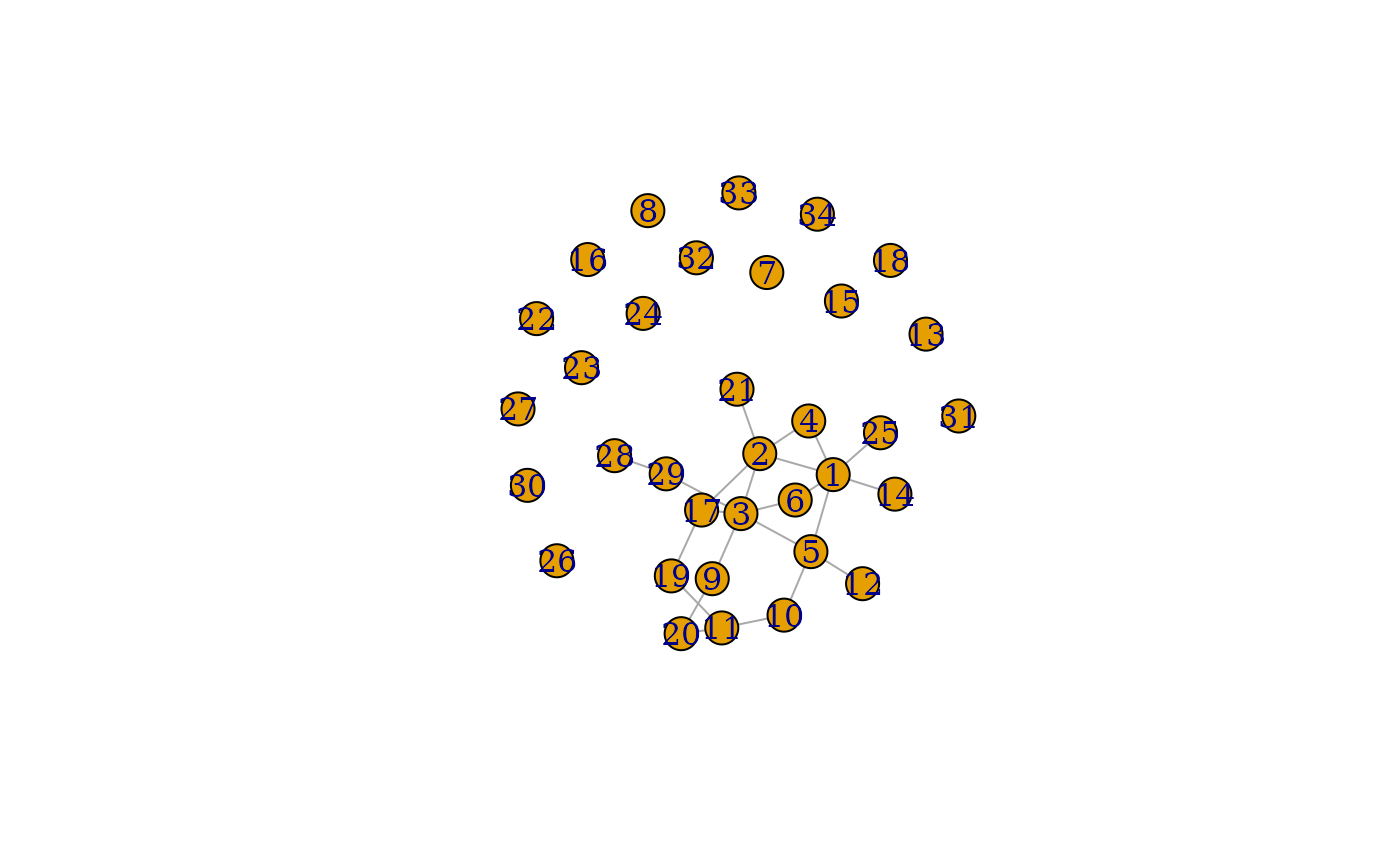
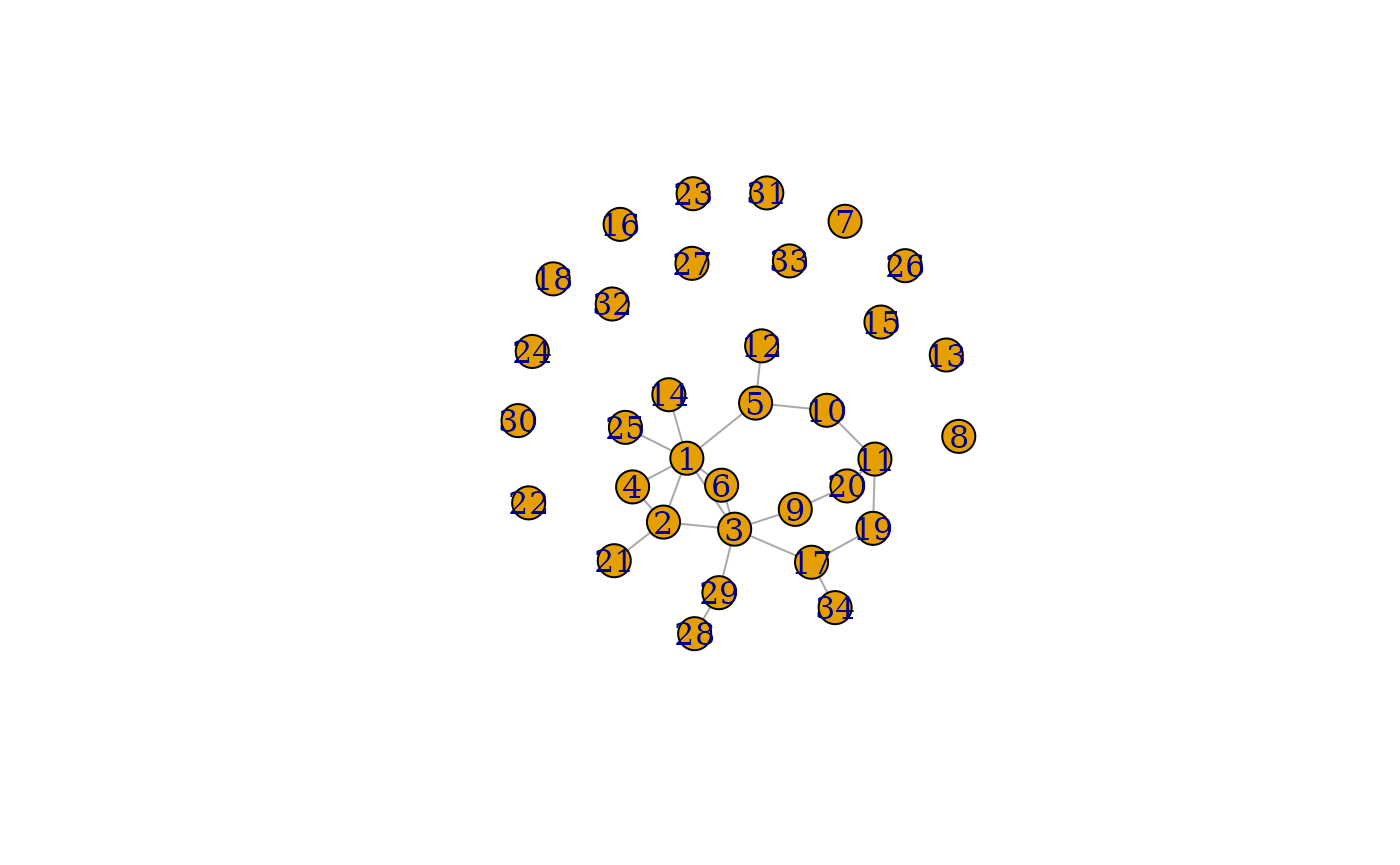
Deploying to gh-pages from @ sevvandi/netseer@c689d47a71e27f04a7684e29b8990f92b8fc075b 🚀

Changed region(s): [[0.3379, 0.1873, 0.7064, 0.7491], [0.3379, 0.2809, 0.4914, 0.4994]]

diff --git a/articles/netseer.html b/articles/netseer.html
@@ -25,7 +25,7 @@
 
     <a class="navbar-brand me-2" href="../index.html">netseer</a>
 
-    <small class="nav-text text-muted me-auto" data-bs-toggle="tooltip" data-bs-placement="bottom" title="">0.1.1</small>
+    <small class="nav-text text-muted me-auto" data-bs-toggle="tooltip" data-bs-placement="bottom" title="">0.1.2</small>
 
 
     <button class="navbar-toggler" type="button" data-bs-toggle="collapse" data-bs-target="#navbar" aria-controls="navbar" aria-expanded="false" aria-label="Toggle navigation">
@@ -143,11 +143,11 @@ specifies we want to predict the graph at the next time point.</p>
 <span><span class="co">#&gt;   as.zoo.data.frame zoo</span></span>
 <span><span class="va">grpred</span></span>
 <span><span class="co">#&gt; $graph_mean</span></span>
-<span><span class="co">#&gt; IGRAPH 1df11f7 U--- 34 23 -- </span></span>
-<span><span class="co">#&gt; + edges from 1df11f7:</span></span>
-<span><span class="co">#&gt;  [1] 28--29 17--19 11--20 11--19 10--11  9--20  5--12  5--10  3--29  3--17</span></span>
-<span><span class="co">#&gt; [11]  3-- 9  3-- 6  3-- 5  2--21  2--17  2-- 4  2-- 3  1--25  1--14  1-- 6</span></span>
-<span><span class="co">#&gt; [21]  1-- 5  1-- 4  1-- 2</span></span>
+<span><span class="co">#&gt; IGRAPH b2c3eab U--- 34 23 -- </span></span>
+<span><span class="co">#&gt; + edges from b2c3eab:</span></span>
+<span><span class="co">#&gt;  [1]  1-- 2  1-- 4  1-- 5  1-- 6  1--14  1--25  2-- 3  2-- 4  2--21  3-- 6</span></span>
+<span><span class="co">#&gt; [11]  3-- 9  3--17  3--29  5--10  5--12  9--20 10--11 11--19 11--20 17--19</span></span>
+<span><span class="co">#&gt; [21] 28--29  1-- 3 17--34</span></span>
 <span><span class="co">#&gt; </span></span>
 <span><span class="co">#&gt; $graph_lower</span></span>
 <span><span class="co">#&gt; NULL</span></span>
@@ -174,11 +174,11 @@ specifies we want to predict the graph at the next time point.</p>
 <span><span class="co">#&gt; [2] missing value where TRUE/FALSE needed</span></span>
 <span><span class="va">grpred2</span></span>
 <span><span class="co">#&gt; $graph_mean</span></span>
-<span><span class="co">#&gt; IGRAPH 0441afc U--- 37 26 -- </span></span>
-<span><span class="co">#&gt; + edges from 0441afc:</span></span>
-<span><span class="co">#&gt;  [1] 28--29 17--19 13--15 11--20 11--19 10--11  9--20  5--12  5--10  4-- 7</span></span>
-<span><span class="co">#&gt; [11]  3--29  3--17  3-- 9  3-- 6  3-- 5  2--21  2--17  2-- 4  2-- 3  1--25</span></span>
-<span><span class="co">#&gt; [21]  1--14  1--11  1-- 6  1-- 5  1-- 4  1-- 2</span></span>
+<span><span class="co">#&gt; IGRAPH b3202a6 U--- 37 26 -- </span></span>
+<span><span class="co">#&gt; + edges from b3202a6:</span></span>
+<span><span class="co">#&gt;  [1]  1-- 2  1-- 4  1-- 5  1-- 6  1--14  1--25  2-- 3  2-- 4  2--21  3-- 6</span></span>
+<span><span class="co">#&gt; [11]  3-- 9  3--17  3--29  5--10  5--12  9--20 10--11 11--19 11--20 17--19</span></span>
+<span><span class="co">#&gt; [21] 28--29  1-- 3  3-- 4  2-- 5  4-- 5 17--37</span></span>
 <span><span class="co">#&gt; </span></span>
 <span><span class="co">#&gt; $graph_lower</span></span>
 <span><span class="co">#&gt; NULL</span></span>
@@ -212,11 +212,11 @@ less accurate. This is with everything, not just graphs.</p>
 <span><span class="co">#&gt; [2] missing value where TRUE/FALSE needed</span></span>
 <span><span class="va">grpred3</span></span>
 <span><span class="co">#&gt; $graph_mean</span></span>
-<span><span class="co">#&gt; IGRAPH c6cf6e5 U--- 40 29 -- </span></span>
-<span><span class="co">#&gt; + edges from c6cf6e5:</span></span>
-<span><span class="co">#&gt;  [1] 28--29 17--19 13--15 11--20 11--19 10--11  9--20  5--12  5--10  4-- 7</span></span>
-<span><span class="co">#&gt; [11]  3--29  3--17  3-- 9  3-- 6  3-- 5  2--21  2--17  2-- 4  2-- 3  1--25</span></span>
-<span><span class="co">#&gt; [21]  1--14  1--11  1-- 6  1-- 5  1-- 4  1-- 2  1--38  1--39  4--40</span></span>
+<span><span class="co">#&gt; IGRAPH bb7627e U--- 40 29 -- </span></span>
+<span><span class="co">#&gt; + edges from bb7627e:</span></span>
+<span><span class="co">#&gt;  [1]  1-- 2  1-- 4  1-- 5  1-- 6  1--14  1--25  2-- 3  2-- 4  2--21  3-- 6</span></span>
+<span><span class="co">#&gt; [11]  3-- 9  3--17  3--29  5--10  5--12  9--20 10--11 11--19 11--20 17--19</span></span>
+<span><span class="co">#&gt; [21] 28--29  1-- 3  3-- 4  2-- 5  4-- 6  5-- 6  2-- 9  1--10 17--40</span></span>
 <span><span class="co">#&gt; </span></span>
 <span><span class="co">#&gt; $graph_lower</span></span>
 <span><span class="co">#&gt; NULL</span></span>

diff --git a/reference/predict_graph.html b/reference/predict_graph.html
@@ -9,7 +9,7 @@ graphs."><meta property="og:image" content="https://sevvandi.github.io/netseer/l
 
     <a class="navbar-brand me-2" href="../index.html">netseer</a>
 
-    <small class="nav-text text-muted me-auto" data-bs-toggle="tooltip" data-bs-placement="bottom" title="">0.1.1</small>
+    <small class="nav-text text-muted me-auto" data-bs-toggle="tooltip" data-bs-placement="bottom" title="">0.1.2</small>
 
 
     <button class="navbar-toggler" type="button" data-bs-toggle="collapse" data-bs-target="#navbar" aria-controls="navbar" aria-expanded="false" aria-label="Toggle navigation">
@@ -46,7 +46,7 @@ graphs.</p>
 <span>  conf_level1 <span class="op">=</span> <span class="cn">NULL</span>,</span>
 <span>  conf_level2 <span class="op">=</span> <span class="fl">90</span>,</span>
 <span>  dense_opt <span class="op">=</span> <span class="fl">2</span>,</span>
-<span>  weights_opt <span class="op">=</span> <span class="fl">6</span>,</span>
+<span>  weights_opt <span class="op">=</span> <span class="fl">8</span>,</span>
 <span>  weights_param <span class="op">=</span> <span class="fl">0.001</span>,</span>
 <span>  h <span class="op">=</span> <span class="fl">1</span></span>
 <span><span class="op">)</span></span></code></pre></div>
@@ -94,7 +94,8 @@ version. Option 4 uses proportional weights according to the history. Option 5 u
 proportional weights, but as the network is more in the past, it gives less weight.
 Option 5 uses linearly decaying proportional weights. Option 6 uses harmonically decaying
 weights. That is the network at <code>T</code> is given weight 1,  <code>T-1</code>
-is given weight 1/2 and so on. Default is set to <code>6</code>.</p></dd>
+is given weight 1/2 and so on. Option 7 uses 1 for edges that are present in the last
+graph. Option 8 is a slightly different to Option 7. It uses 1 for edges in the last seen graph and the <code>weights_param</code> for new edges. Default is set to <code>8</code>.</p></dd>
 
 
 <dt id="arg-weights-param">weights_param<a class="anchor" aria-label="anchor" href="#arg-weights-param"></a></dt>
@@ -138,8 +139,8 @@ If If <code>conf_level1</code> is <code>NULL</code>, only the mean predicted gra
 <span class="r-msg co"><span class="r-pr">#&gt;</span>   as.zoo.data.frame zoo </span>
 <span class="r-in"><span><span class="va">grpred</span></span></span>
 <span class="r-out co"><span class="r-pr">#&gt;</span> $graph_mean</span>
-<span class="r-out co"><span class="r-pr">#&gt;</span> IGRAPH 185b249 U--- 34 23 -- </span>
-<span class="r-out co"><span class="r-pr">#&gt;</span> + edges from 185b249:</span>
+<span class="r-out co"><span class="r-pr">#&gt;</span> IGRAPH 912e163 U--- 34 23 -- </span>
+<span class="r-out co"><span class="r-pr">#&gt;</span> + edges from 912e163:</span>
 <span class="r-out co"><span class="r-pr">#&gt;</span>  [1] 28--29 17--19 11--20 11--19 10--11  9--20  5--12  5--10  3--29  3--17</span>
 <span class="r-out co"><span class="r-pr">#&gt;</span> [11]  3-- 9  3-- 6  3-- 5  2--21  2--17  2-- 4  2-- 3  1--25  1--14  1-- 6</span>
 <span class="r-out co"><span class="r-pr">#&gt;</span> [21]  1-- 5  1-- 4  1-- 2</span>

diff --git a/index.html b/index.html
@@ -28,7 +28,7 @@
 
     <a class="navbar-brand me-2" href="index.html">netseer</a>
 
-    <small class="nav-text text-muted me-auto" data-bs-toggle="tooltip" data-bs-placement="bottom" title="">0.1.1</small>
+    <small class="nav-text text-muted me-auto" data-bs-toggle="tooltip" data-bs-placement="bottom" title="">0.1.2</small>
 
 
     <button class="navbar-toggler" type="button" data-bs-toggle="collapse" data-bs-target="#navbar" aria-controls="navbar" aria-expanded="false" aria-label="Toggle navigation">
@@ -69,14 +69,16 @@
 <p>The vignette for the R package is available under <a href="articles/netseer.html">Get Started</a> at <a href="https://sevvandi.github.io/netseer/" class="uri">https://sevvandi.github.io/netseer/</a></p>
 </div>
 <div class="section level2">
-<h2 id="python-code">Python code<a class="anchor" aria-label="anchor" href="#python-code"></a>
+<h2 id="python-package">Python package<a class="anchor" aria-label="anchor" href="#python-package"></a>
 </h2>
-<p>The Python code is available at <a href="https://github.com/sevvandi/netseer-python/" class="external-link uri">https://github.com/sevvandi/netseer-python/</a>. The Python package will be made available in the near future.</p>
+<p>The Python package is available from PyPI at <a href="https://pypi.org/project/netseer/" class="external-link uri">https://pypi.org/project/netseer/</a>. The Python package can be installed as follows:</p>
+<div class="sourceCode" id="cb2"><pre class="sourceCode python"><code class="sourceCode python"><span id="cb2-1"><a href="#cb2-1" tabindex="-1"></a>pip install netseer</span></code></pre></div>
+<p>The documentation for the Python package is available at <a href="https://sevvandi.github.io/netseer-python/" class="uri">https://sevvandi.github.io/netseer-python/</a>.</p>
 </div>
 <div class="section level2">
 <h2 id="coding-credits">Coding Credits<a class="anchor" aria-label="anchor" href="#coding-credits"></a>
 </h2>
-<p>A big shout out to Stefan Westerlund and Brodie Oldfield for helping with this package. Stefan optimized the algorithm in R and coded it from scratch in Python. Brodie is currently packaging up the Python code and is working on a website for the Python version.</p>
+<p>A big shout out to Stefan Westerlund and Brodie Oldfield for their contributions. Stefan optimized the algorithm in R and coded it from scratch in Python. Brodie packaged up the Python code and did the website for the Python version.</p>
 </div>
 <div class="section level2">
 <h2 id="references">References<a class="anchor" aria-label="anchor" href="#references"></a>

diff --git a/reference/generate_graph_linear.html b/reference/generate_graph_linear.html
@@ -9,7 +9,7 @@ of graphs are created, the number of nodes would linearly increase."><meta prope
 
     <a class="navbar-brand me-2" href="../index.html">netseer</a>
 
-    <small class="nav-text text-muted me-auto" data-bs-toggle="tooltip" data-bs-placement="bottom" title="">0.1.1</small>
+    <small class="nav-text text-muted me-auto" data-bs-toggle="tooltip" data-bs-placement="bottom" title="">0.1.2</small>
 
 
     <button class="navbar-toggler" type="button" data-bs-toggle="collapse" data-bs-target="#navbar" aria-controls="navbar" aria-expanded="false" aria-label="Toggle navigation">
@@ -88,10 +88,10 @@ set to <code>3</code>.</p></dd>
     <div class="sourceCode"><pre class="sourceCode r"><code><span class="r-in"><span><span class="fu"><a href="https://rdrr.io/r/base/Random.html" class="external-link">set.seed</a></span><span class="op">(</span><span class="fl">1</span><span class="op">)</span></span></span>
 <span class="r-in"><span><span class="va">gr</span> <span class="op">&lt;-</span> <span class="fu">generate_graph_linear</span><span class="op">(</span><span class="op">)</span></span></span>
 <span class="r-in"><span><span class="va">gr</span></span></span>
-<span class="r-out co"><span class="r-pr">#&gt;</span> IGRAPH f3ae14a U--- 11 12 -- Barabasi graph</span>
+<span class="r-out co"><span class="r-pr">#&gt;</span> IGRAPH 7c21800 U--- 11 12 -- Barabasi graph</span>
 <span class="r-out co"><span class="r-pr">#&gt;</span> + attr: name (g/c), power (g/n), m (g/n), zero.appeal (g/n), algorithm</span>
 <span class="r-out co"><span class="r-pr">#&gt;</span> | (g/c)</span>
-<span class="r-out co"><span class="r-pr">#&gt;</span> + edges from f3ae14a:</span>
+<span class="r-out co"><span class="r-pr">#&gt;</span> + edges from 7c21800:</span>
 <span class="r-out co"><span class="r-pr">#&gt;</span>  [1] 1-- 2 1-- 4 1-- 7 1--11 2-- 3 2-- 5 2-- 6 5-- 6 5--11 6--10 7-- 8 8-- 9</span>
 <span class="r-in"><span></span></span>
 </code></pre></div>

diff --git a/reference/generate_graph_exp.html b/reference/generate_graph_exp.html
@@ -9,7 +9,7 @@ of graphs are created, the number of nodes in this sequence would exponentially 
 
     <a class="navbar-brand me-2" href="../index.html">netseer</a>
 
-    <small class="nav-text text-muted me-auto" data-bs-toggle="tooltip" data-bs-placement="bottom" title="">0.1.1</small>
+    <small class="nav-text text-muted me-auto" data-bs-toggle="tooltip" data-bs-placement="bottom" title="">0.1.2</small>
 
 
     <button class="navbar-toggler" type="button" data-bs-toggle="collapse" data-bs-target="#navbar" aria-controls="navbar" aria-expanded="false" aria-label="Toggle navigation">
@@ -82,10 +82,10 @@ set to <code>0.1</code>.</p></dd>
     <div class="sourceCode"><pre class="sourceCode r"><code><span class="r-in"><span><span class="fu"><a href="https://rdrr.io/r/base/Random.html" class="external-link">set.seed</a></span><span class="op">(</span><span class="fl">1</span><span class="op">)</span></span></span>
 <span class="r-in"><span><span class="va">gr</span> <span class="op">&lt;-</span> <span class="fu">generate_graph_exp</span><span class="op">(</span><span class="op">)</span></span></span>
 <span class="r-in"><span><span class="va">gr</span></span></span>
-<span class="r-out co"><span class="r-pr">#&gt;</span> IGRAPH 1ddb56f U--- 6 4 -- Barabasi graph</span>
+<span class="r-out co"><span class="r-pr">#&gt;</span> IGRAPH 87af859 U--- 6 4 -- Barabasi graph</span>
 <span class="r-out co"><span class="r-pr">#&gt;</span> + attr: name (g/c), power (g/n), m (g/n), zero.appeal (g/n), algorithm</span>
 <span class="r-out co"><span class="r-pr">#&gt;</span> | (g/c)</span>
-<span class="r-out co"><span class="r-pr">#&gt;</span> + edges from 1ddb56f:</span>
+<span class="r-out co"><span class="r-pr">#&gt;</span> + edges from 87af859:</span>
 <span class="r-out co"><span class="r-pr">#&gt;</span> [1] 1--2 1--3 1--4 2--5</span>
 <span class="r-in"><span></span></span>
 </code></pre></div>

diff --git a/authors.html b/authors.html
@@ -7,7 +7,7 @@
 
     <a class="navbar-brand me-2" href="index.html">netseer</a>
 
-    <small class="nav-text text-muted me-auto" data-bs-toggle="tooltip" data-bs-placement="bottom" title="">0.1.1</small>
+    <small class="nav-text text-muted me-auto" data-bs-toggle="tooltip" data-bs-placement="bottom" title="">0.1.2</small>
 
 
     <button class="navbar-toggler" type="button" data-bs-toggle="collapse" data-bs-target="#navbar" aria-controls="navbar" aria-expanded="false" aria-label="Toggle navigation">
@@ -46,16 +46,17 @@
       <h2 id="citation">Citation</h2>
       <p></p>
 
-      <p>Kandanaarachchi S, Westerlund S (2025).
-<em>netseer: Graph Prediction from a Graph Time Series</em>.
-R package version 0.1.1, <a href="https://sevvandi.github.io/netseer/">https://sevvandi.github.io/netseer/</a>.
+      <p>Kandanaarachchi S, Xu Z, Westerlund S, Sanderson C (2025).
+“Predicting Graph Structure via Adapted Flux Balance Analysis.”
+<em>arXiv preprint arXiv:2507.05806</em>.
+<a href="https://doi.org/10.48550/arXiv.2507.05806" class="external-link">doi:10.48550/arXiv.2507.05806</a>.
 </p>
-      <pre>@Manual{,
-  title = {netseer: Graph Prediction from a Graph Time Series},
-  author = {Sevvandi Kandanaarachchi and Stefan Westerlund},
+      <pre>@Article{,
+  title = {Predicting Graph Structure via Adapted Flux Balance Analysis},
+  author = {Sevvandi Kandanaarachchi and Ziqi Xu and Stefan Westerlund and Conrad Sanderson},
+  journal = {arXiv preprint arXiv:2507.05806},
   year = {2025},
-  note = {R package version 0.1.1},
-  url = {https://sevvandi.github.io/netseer/},
+  doi = {10.48550/arXiv.2507.05806},
 }</pre>
     </div>
 

diff --git a/404.html b/404.html
@@ -26,7 +26,7 @@
 
     <a class="navbar-brand me-2" href="https://sevvandi.github.io/netseer/index.html">netseer</a>
 
-    <small class="nav-text text-muted me-auto" data-bs-toggle="tooltip" data-bs-placement="bottom" title="">0.1.1</small>
+    <small class="nav-text text-muted me-auto" data-bs-toggle="tooltip" data-bs-placement="bottom" title="">0.1.2</small>
 
 
     <button class="navbar-toggler" type="button" data-bs-toggle="collapse" data-bs-target="#navbar" aria-controls="navbar" aria-expanded="false" aria-label="Toggle navigation">

diff --git a/articles/index.html b/articles/index.html
@@ -7,7 +7,7 @@
 
     <a class="navbar-brand me-2" href="../index.html">netseer</a>
 
-    <small class="nav-text text-muted me-auto" data-bs-toggle="tooltip" data-bs-placement="bottom" title="">0.1.1</small>
+    <small class="nav-text text-muted me-auto" data-bs-toggle="tooltip" data-bs-placement="bottom" title="">0.1.2</small>
 
 
     <button class="navbar-toggler" type="button" data-bs-toggle="collapse" data-bs-target="#navbar" aria-controls="navbar" aria-expanded="false" aria-label="Toggle navigation">

diff --git a/reference/index.html b/reference/index.html
@@ -7,7 +7,7 @@
 
     <a class="navbar-brand me-2" href="../index.html">netseer</a>
 
-    <small class="nav-text text-muted me-auto" data-bs-toggle="tooltip" data-bs-placement="bottom" title="">0.1.1</small>
+    <small class="nav-text text-muted me-auto" data-bs-toggle="tooltip" data-bs-placement="bottom" title="">0.1.2</small>
 
 
     <button class="navbar-toggler" type="button" data-bs-toggle="collapse" data-bs-target="#navbar" aria-controls="navbar" aria-expanded="false" aria-label="Toggle navigation">

diff --git a/LICENSE.html b/LICENSE.html
@@ -7,7 +7,7 @@
 
     <a class="navbar-brand me-2" href="index.html">netseer</a>
 
-    <small class="nav-text text-muted me-auto" data-bs-toggle="tooltip" data-bs-placement="bottom" title="">0.1.1</small>
+    <small class="nav-text text-muted me-auto" data-bs-toggle="tooltip" data-bs-placement="bottom" title="">0.1.2</small>
 
 
     <button class="navbar-toggler" type="button" data-bs-toggle="collapse" data-bs-target="#navbar" aria-controls="navbar" aria-expanded="false" aria-label="Toggle navigation">
